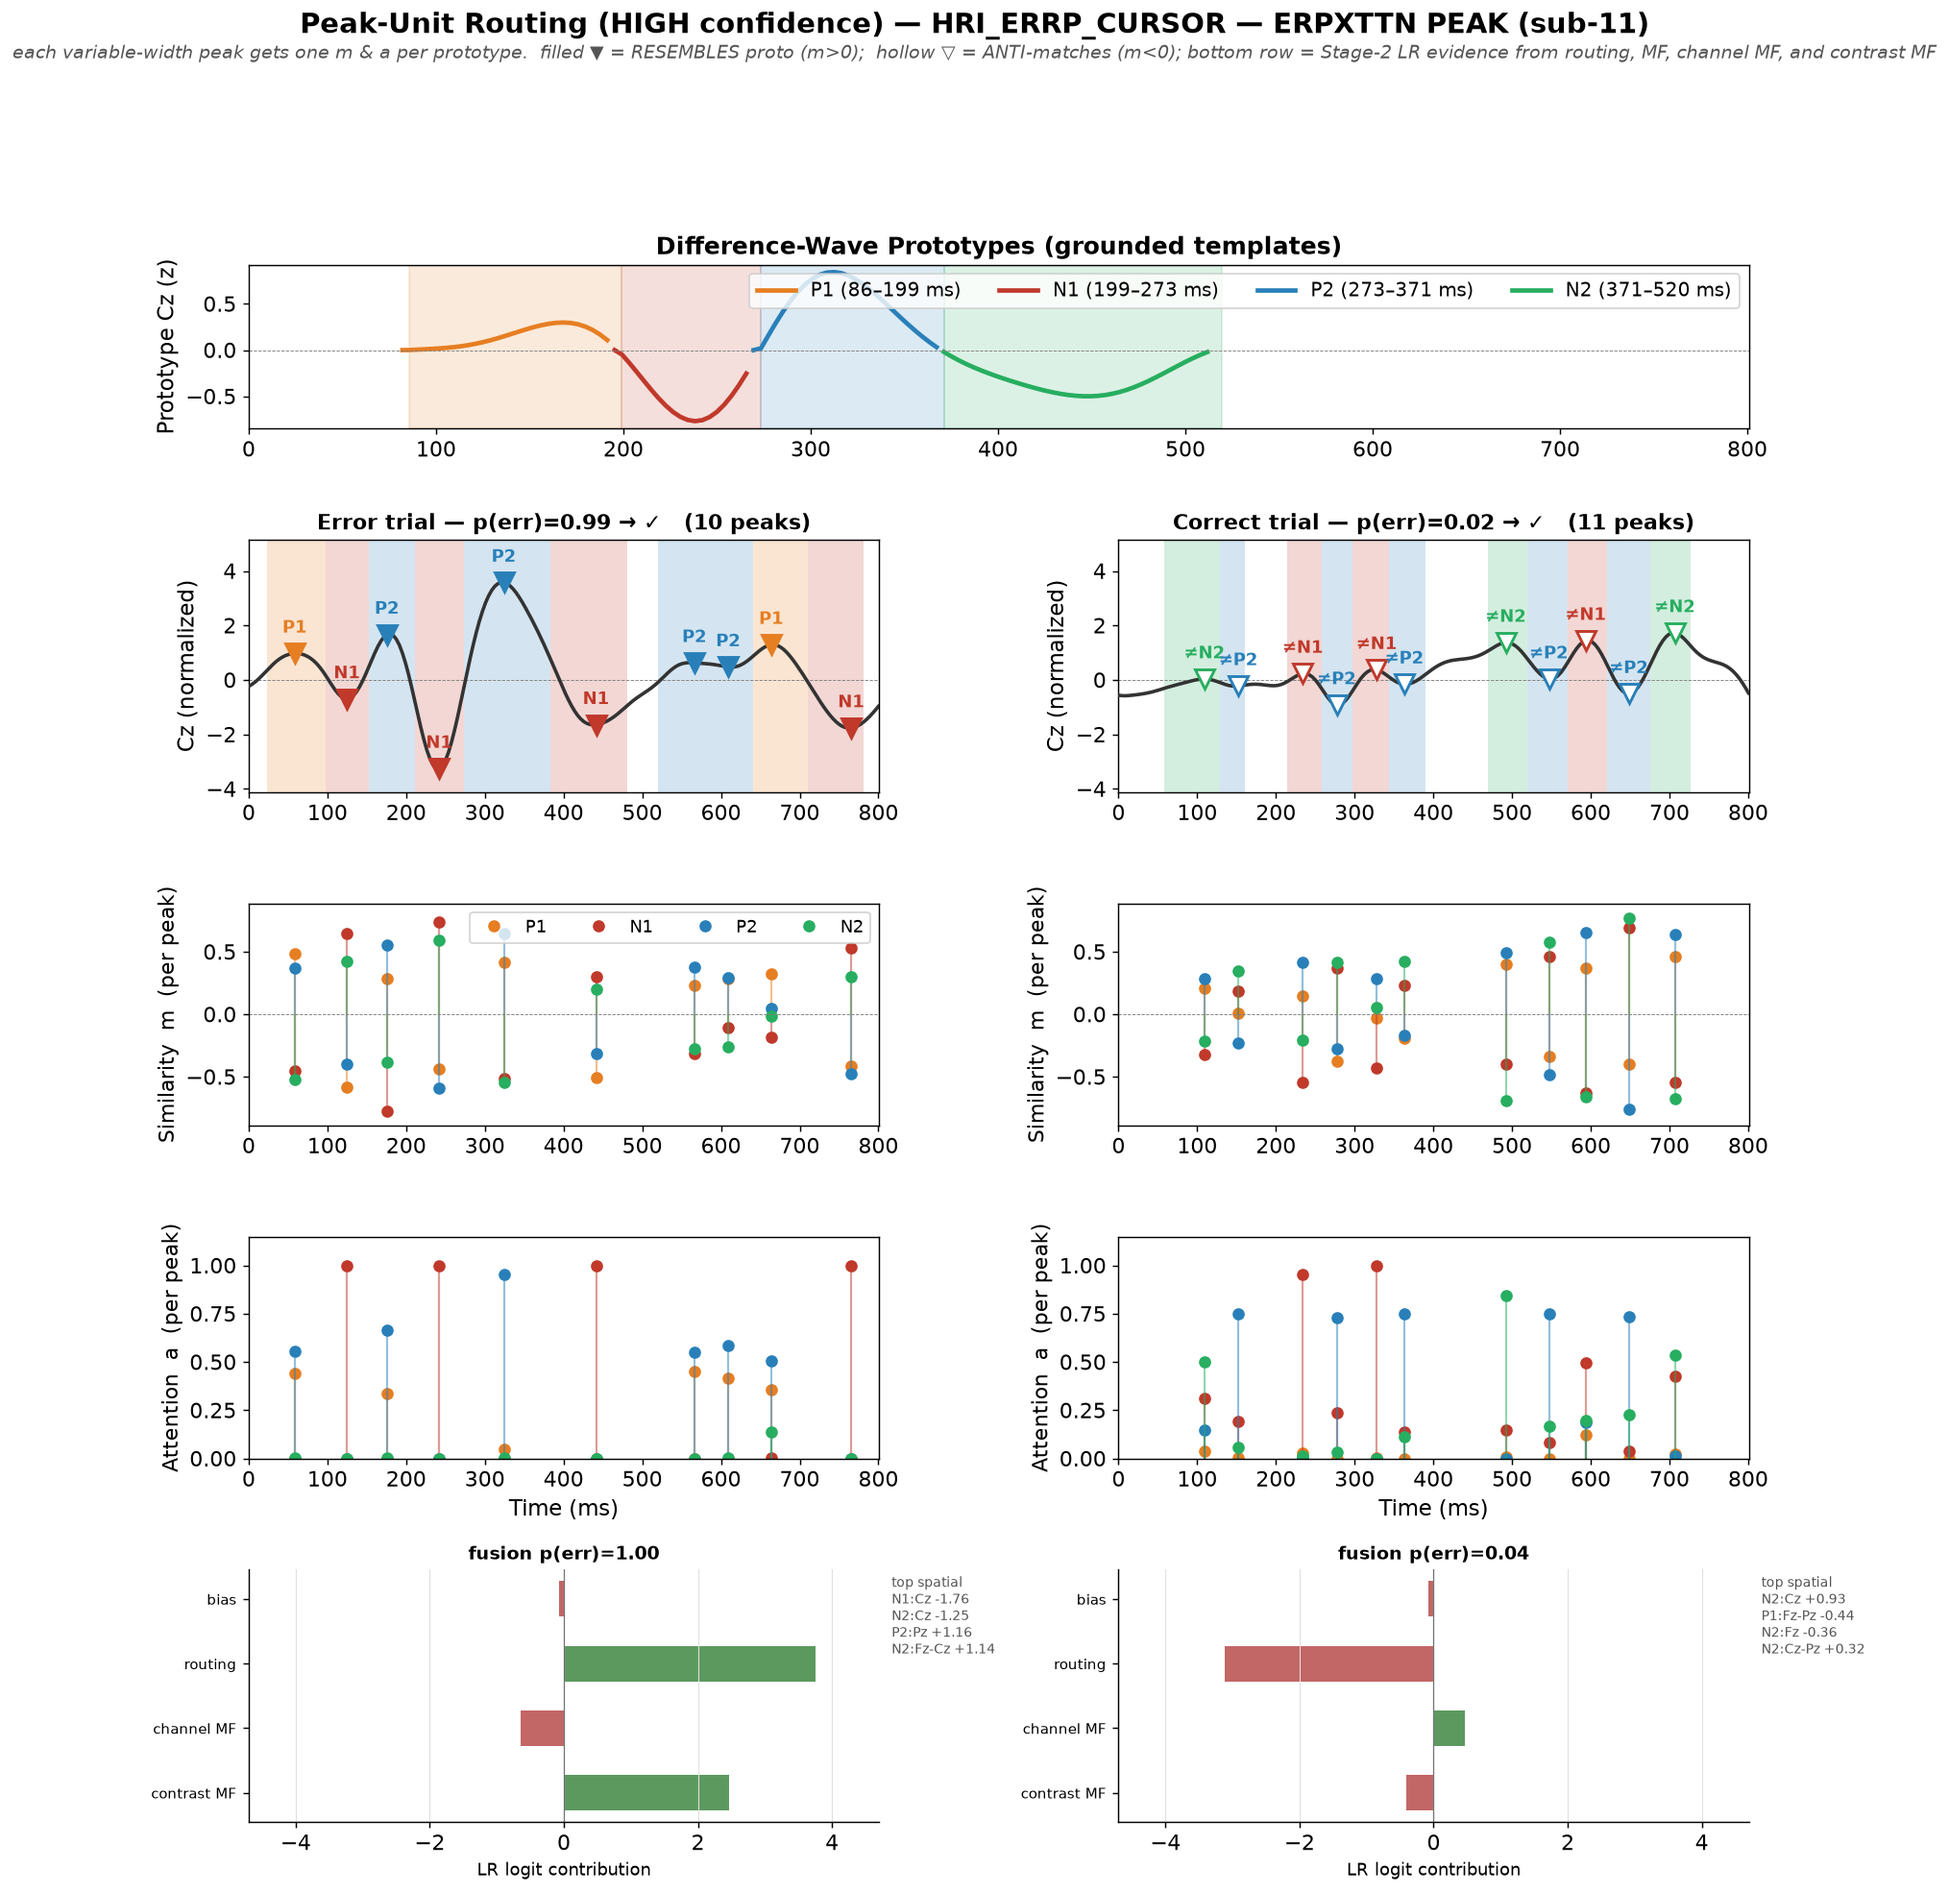
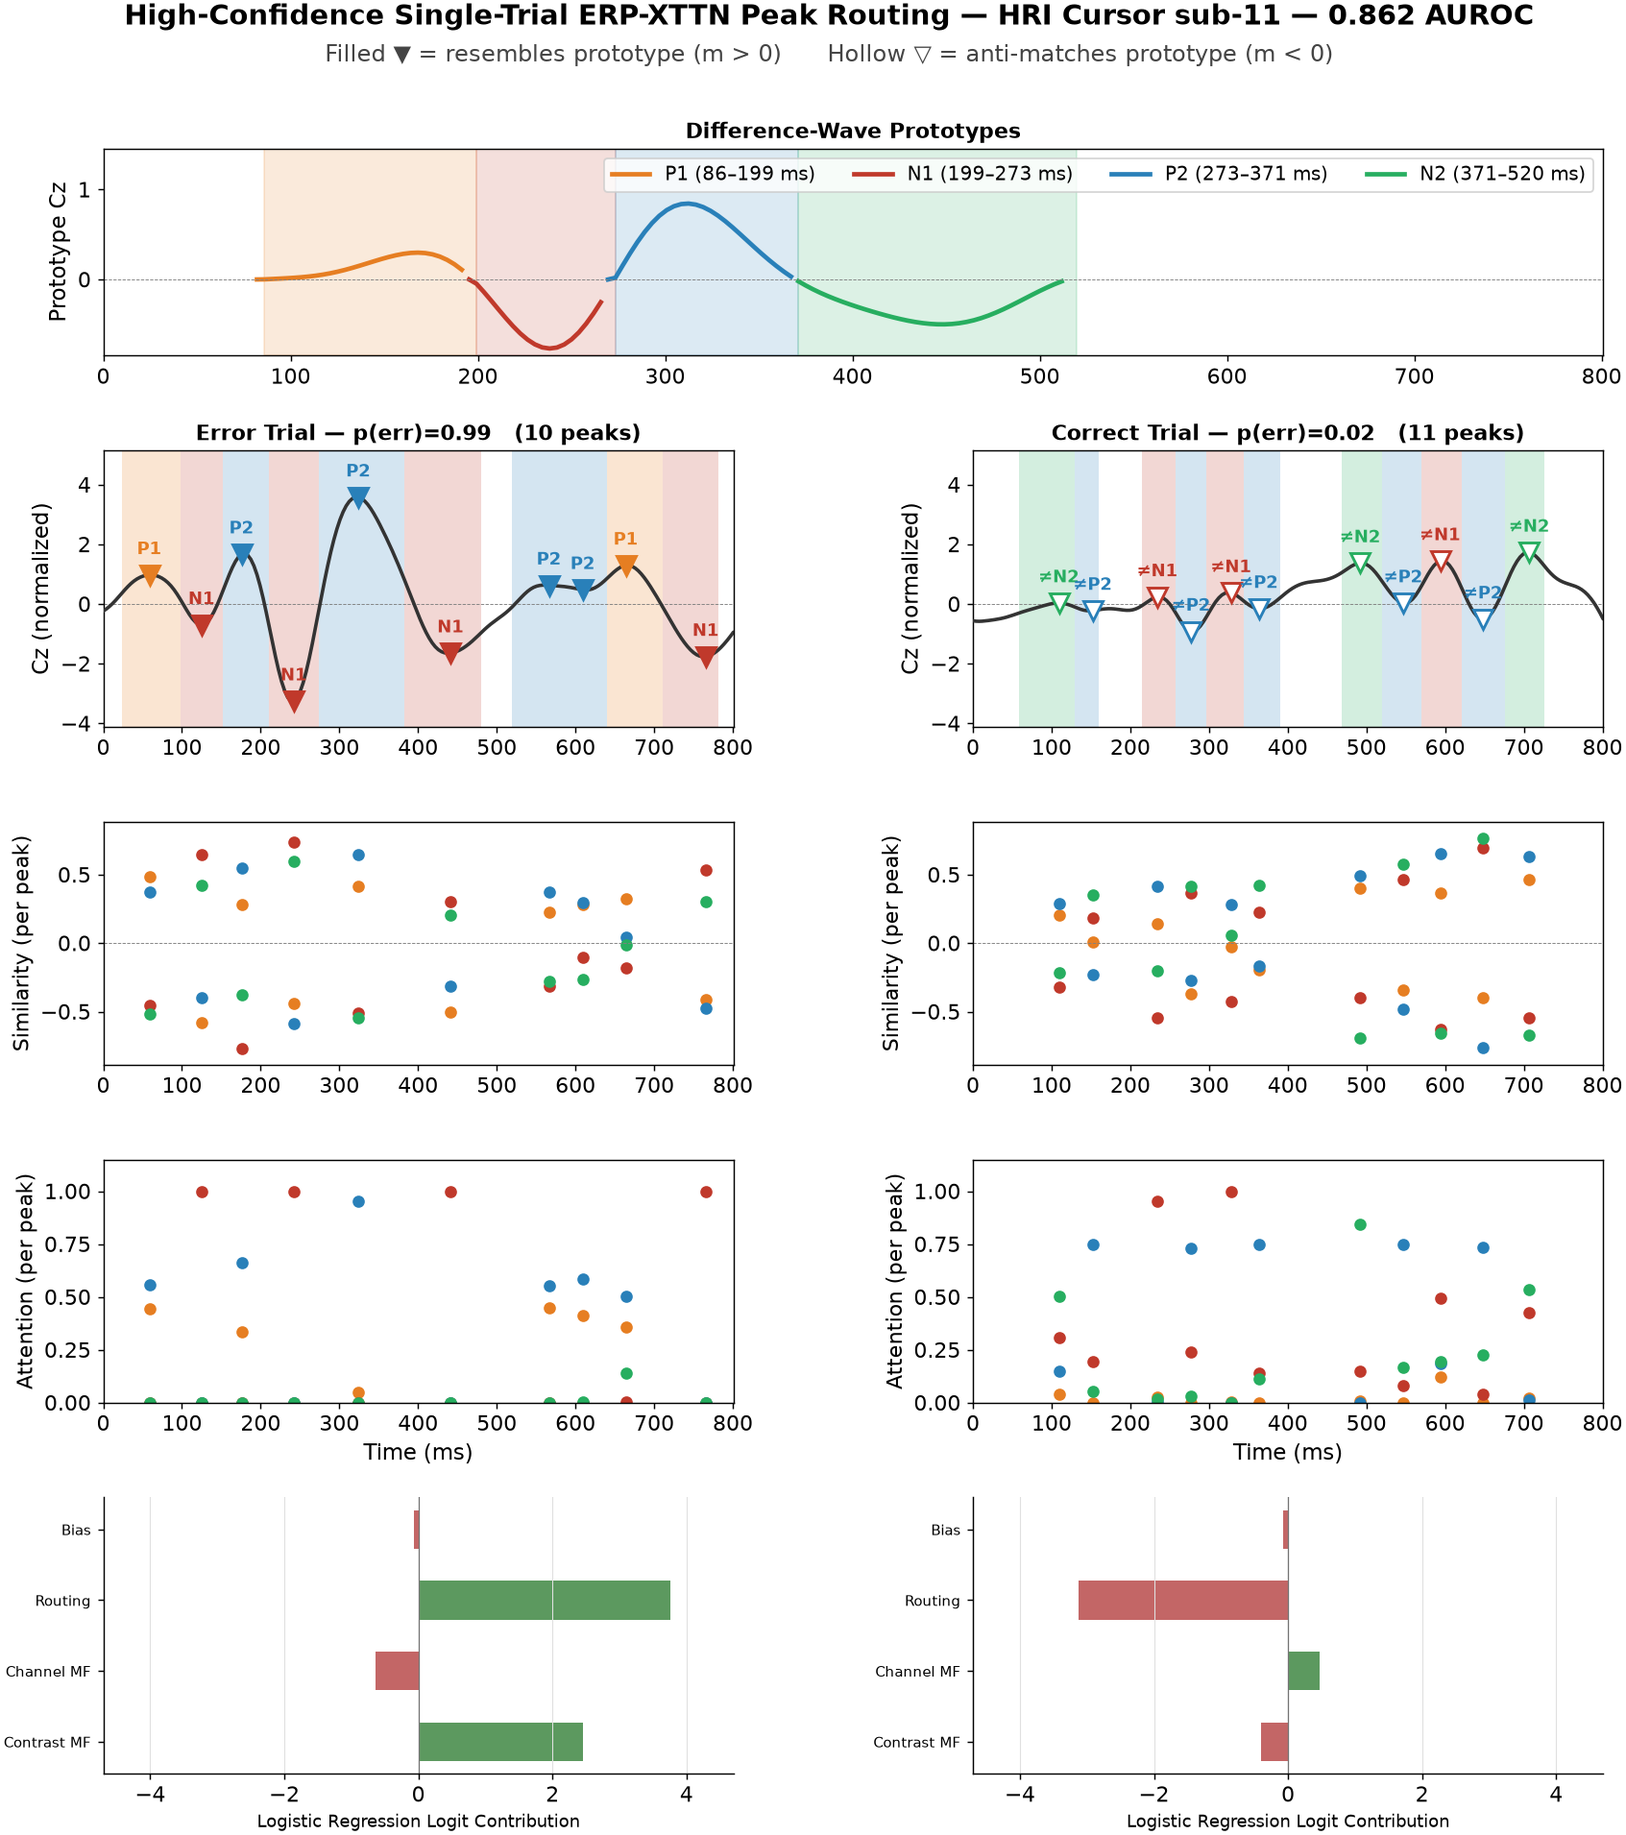
paper figures

diff --git a/05_gen_figures.py b/05_gen_figures.py
@@ -601,7 +601,7 @@ def _select_routing(labels, probs, mode):
     def cap(i):
         truth = 'Error' if labels[i] == 1 else 'Correct'
         ok = (labels[i] == 1) == (probs[i] >= 0.5)
-        return f"{truth} trial — p(err)={probs[i]:.2f} → {'✓' if ok else '✗ MISCLASSIFIED'}"
+        return f"{truth} Trial — p(err)={probs[i]:.2f}"
 
     if mode in ('high', 'median', 'low'):
         tp = err[probs[err] >= 0.5]; tn = cor[probs[cor] < 0.5]
@@ -747,11 +747,11 @@ def _short_feature_label(name, proto_names):
 def _plot_fusion_evidence(ax, evidence, proto_names, xlim=None):
     """Compact decision ledger + top spatial amplitude terms for one trial."""
     group_specs = [
-        ("intercept", "bias"),
-        ("routing_logit", "routing"),
-        ("mf", "scalar MF (legacy)"),
-        ("mf_channel", "channel MF"),
-        ("mf_contrast", "contrast MF"),
+        ("intercept", "Bias"),
+        ("routing_logit", "Routing"),
+        ("mf", "Scalar MF (Legacy)"),
+        ("mf_channel", "Channel MF"),
+        ("mf_contrast", "Contrast MF"),
     ]
     labels, vals = [], []
     for key, label in group_specs:
@@ -768,22 +768,12 @@ def _plot_fusion_evidence(ax, evidence, proto_names, xlim=None):
     ax.set_yticklabels(labels, fontsize=8.5)
     ax.set_xlim(-lim, lim)
     ax.invert_yaxis()
-    ax.set_xlabel("LR logit contribution", fontsize=10)
-    ax.set_title(f"fusion p(err)={evidence['prob']:.2f}", fontsize=10.5,
-                 fontweight="bold")
+    ax.set_xlabel("Logistic Regression Logit Contribution", fontsize=10)
+    ax.set_title("", fontsize=0)
     ax.grid(axis="x", color="0.88", lw=0.6)
     for spine in ("top", "right"):
         ax.spines[spine].set_visible(False)
 
-    top = evidence.get("top_spatial", [])
-    if top:
-        lines = []
-        for name, c, _val in top[:4]:
-            sign = "+" if c >= 0 else ""
-            lines.append(f"{_short_feature_label(name, proto_names)} {sign}{c:.2f}")
-        ax.text(1.02, 0.98, "top spatial\n" + "\n".join(lines),
-                transform=ax.transAxes, ha="left", va="top", fontsize=8.0,
-                color="#555")
 
 
 def plot_peak_routing(npz_path, out_png, dataset_label='ERP',
@@ -801,6 +791,7 @@ def plot_peak_routing(npz_path, out_png, dataset_label='ERP',
     A, M = z['a'], z['m']
     mask, center, bounds = z['mask'], z['center'], z['bounds']
     X, labels, probs = z['X'], z['labels'], z['probs']
+    auroc = float(z['auroc']) if 'auroc' in z.files else None
     proto_raw, windows = z['proto_raw'], z['proto_windows_ms']
     sfreq = float(z['sfreq'])
     chans = [str(c) for c in z['channel_names']] if len(z['channel_names']) else ['ch0']
@@ -835,17 +826,19 @@ def plot_peak_routing(npz_path, out_png, dataset_label='ERP',
         fusion_xlim = max(0.25, max(abs(v) for v in vals) * 1.25 if vals else 1.0)
 
     if has_fusion_evidence:
-        fig = plt.figure(figsize=(15.5, 16.2))
+        fig = plt.figure(figsize=(15.5, 15.5))
         gs = gridspec.GridSpec(
             5, 2, figure=fig,
-            height_ratios=[0.65, 1.0, 0.88, 0.88, 1.0],
-            hspace=0.50, wspace=0.38)
+            height_ratios=[0.75, 1.0, 0.88, 0.88, 1.0],
+            hspace=0.38, wspace=0.38,
+            top=0.95)
     else:
-        fig = plt.figure(figsize=(14, 13.5))
+        fig = plt.figure(figsize=(14, 12.0))
         gs = gridspec.GridSpec(
             4, 2, figure=fig,
             height_ratios=[0.65, 1.0, 0.9, 0.9],
-            hspace=0.42, wspace=0.22)
+            hspace=0.35, wspace=0.22,
+            top=0.95)
 
     axp = fig.add_subplot(gs[0, :])
     for k in range(K):
@@ -856,9 +849,11 @@ def plot_peak_routing(npz_path, out_png, dataset_label='ERP',
         axp.plot(time_ms[s:e], proto_det[k, s:e], color=col, lw=2.6,
                  label=f'{names[k]} ({s_ms:.0f}–{e_ms:.0f} ms)')
     axp.axhline(0, color='gray', lw=0.5, ls='--')
-    axp.set_xlim(0, time_ms[-1]); axp.set_ylabel(f'Prototype {det_name} (z)', fontsize=13)
-    axp.set_title('Difference-Wave Prototypes (grounded templates)',
-                  fontsize=14, fontweight='bold')
+    axp.set_xlim(0, time_ms[-1]); axp.set_ylabel(f'Prototype {det_name}', fontsize=13)
+    axp.set_title('Difference-Wave Prototypes',
+                  fontsize=12, fontweight='bold')
+    ylo, yhi = axp.get_ylim()
+    axp.set_ylim(ylo, yhi + (yhi - ylo) * 0.3)
     axp.legend(fontsize=11, loc='upper right', ncol=K)
 
     def _vmax(arr):
@@ -900,41 +895,50 @@ def plot_peak_routing(npz_path, out_png, dataset_label='ERP',
         ax2 = fig.add_subplot(gs[2, col_i])
         for k in range(K):
             colk = PROTO_COLORS[k % len(PROTO_COLORS)]
-            ax2.vlines(cen_ms, 0, M[tr, vj, k], color=colk, lw=1.2, alpha=0.5)
-            ax2.plot(cen_ms, M[tr, vj, k], 'o', color=colk, ms=6,
-                     label=names[k] if col_i == 0 else None)
+            ax2.plot(cen_ms, M[tr, vj, k], 'o', color=colk, ms=6)
         ax2.axhline(0, color='gray', lw=0.5, ls='--')
-        ax2.set_ylabel('Similarity  m  (per peak)', fontsize=12)
+        ax2.set_ylabel('Similarity (per peak)', fontsize=12)
         ax2.set_xlim(0, time_ms[-1]); ax2.set_ylim(-mmax, mmax)
-        if col_i == 0:
-            ax2.legend(fontsize=10, loc='upper right', ncol=K)
 
         ax3 = fig.add_subplot(gs[3, col_i])
         for k in range(K):
             colk = PROTO_COLORS[k % len(PROTO_COLORS)]
-            ax3.vlines(cen_ms, 0, A[tr, vj, k], color=colk, lw=1.2, alpha=0.5)
             ax3.plot(cen_ms, A[tr, vj, k], 'o', color=colk, ms=6)
         ax3.set_xlabel('Time (ms)', fontsize=13)
-        ax3.set_ylabel('Attention  a  (per peak)', fontsize=12)
+        ax3.set_ylabel('Attention (per peak)', fontsize=12)
         ax3.set_xlim(0, time_ms[-1]); ax3.set_ylim(0, amax)
 
         if has_fusion_evidence:
             ax4 = fig.add_subplot(gs[4, col_i])
             _plot_fusion_evidence(ax4, fusion_evidence[int(tr)], names, fusion_xlim)
 
-    _mtitle = {'confident': 'confident cases', 'high': 'HIGH confidence',
-               'median': 'MEDIAN confidence', 'low': 'LOW confidence',
-               'wrong': 'MISCLASSIFIED cases'}.get(mode, mode)
-    fig.suptitle(f'Peak-Unit Routing ({_mtitle}) — {dataset_label} ({subject})',
-                 fontsize=16, fontweight='bold', y=1.005)
-    subtitle = ('each variable-width peak gets one m & a per prototype.  '
-                'filled ▼ = RESEMBLES proto (m>0);  hollow ▽ = ANTI-matches (m<0)')
-    if has_fusion_evidence:
-        subtitle += ('; bottom row = Stage-2 LR evidence from routing, MF, '
-                     'channel MF, and contrast MF')
-    fig.text(0.5, 0.982, subtitle, ha='center', fontsize=10.5,
-             color='#555', style='italic')
-    fig.savefig(out_png, dpi=130, bbox_inches='tight')
+    _DISPLAY_NAMES = {
+        'hri_errp_cursor': 'HRI Cursor',
+        'bnci_errp_013-2015': 'BNCI 2015-013',
+        'erpcore_ern': 'ERP CORE ERN',
+        'erpcore_lrp': 'ERP CORE LRP',
+        'erpcore_mmn': 'ERP CORE MMN',
+        'erpcore_n170': 'ERP CORE N170',
+        'erpcore_n2pc': 'ERP CORE N2pc',
+        'erpcore_n400': 'ERP CORE N400',
+        'erpcore_p300': 'ERP CORE P300',
+    }
+    _mode_prefix = {'confident': 'Confident', 'high': 'High-Confidence',
+                    'median': 'Median-Confidence', 'low': 'Low-Confidence',
+                    'wrong': 'Misclassified'}.get(mode, mode.title())
+    ds_key = dataset_label.split(' — ')[0].lower().replace(' ', '_') \
+        if ' — ' in dataset_label else dataset_label.lower().replace(' ', '_')
+    ds_nice = _DISPLAY_NAMES.get(ds_key, dataset_label.split(' — ')[0])
+    auroc_str = f' — {auroc:.3f} AUROC' if auroc is not None else ''
+    fig.suptitle(
+        f'{_mode_prefix} Single-Trial ERP-XTTN Peak Routing — '
+        f'{ds_nice} {subject}{auroc_str}',
+        fontsize=16, fontweight='bold', y=1.025)
+    fig.text(0.5, 0.995,
+             'Filled ▼ = resembles prototype (m > 0)      '
+             'Hollow ▽ = anti-matches prototype (m < 0)',
+             ha='center', fontsize=13.5, color='#444')
+    fig.savefig(out_png, dpi=130, bbox_inches='tight', pad_inches=0.03)
     plt.close(fig)
 
 
